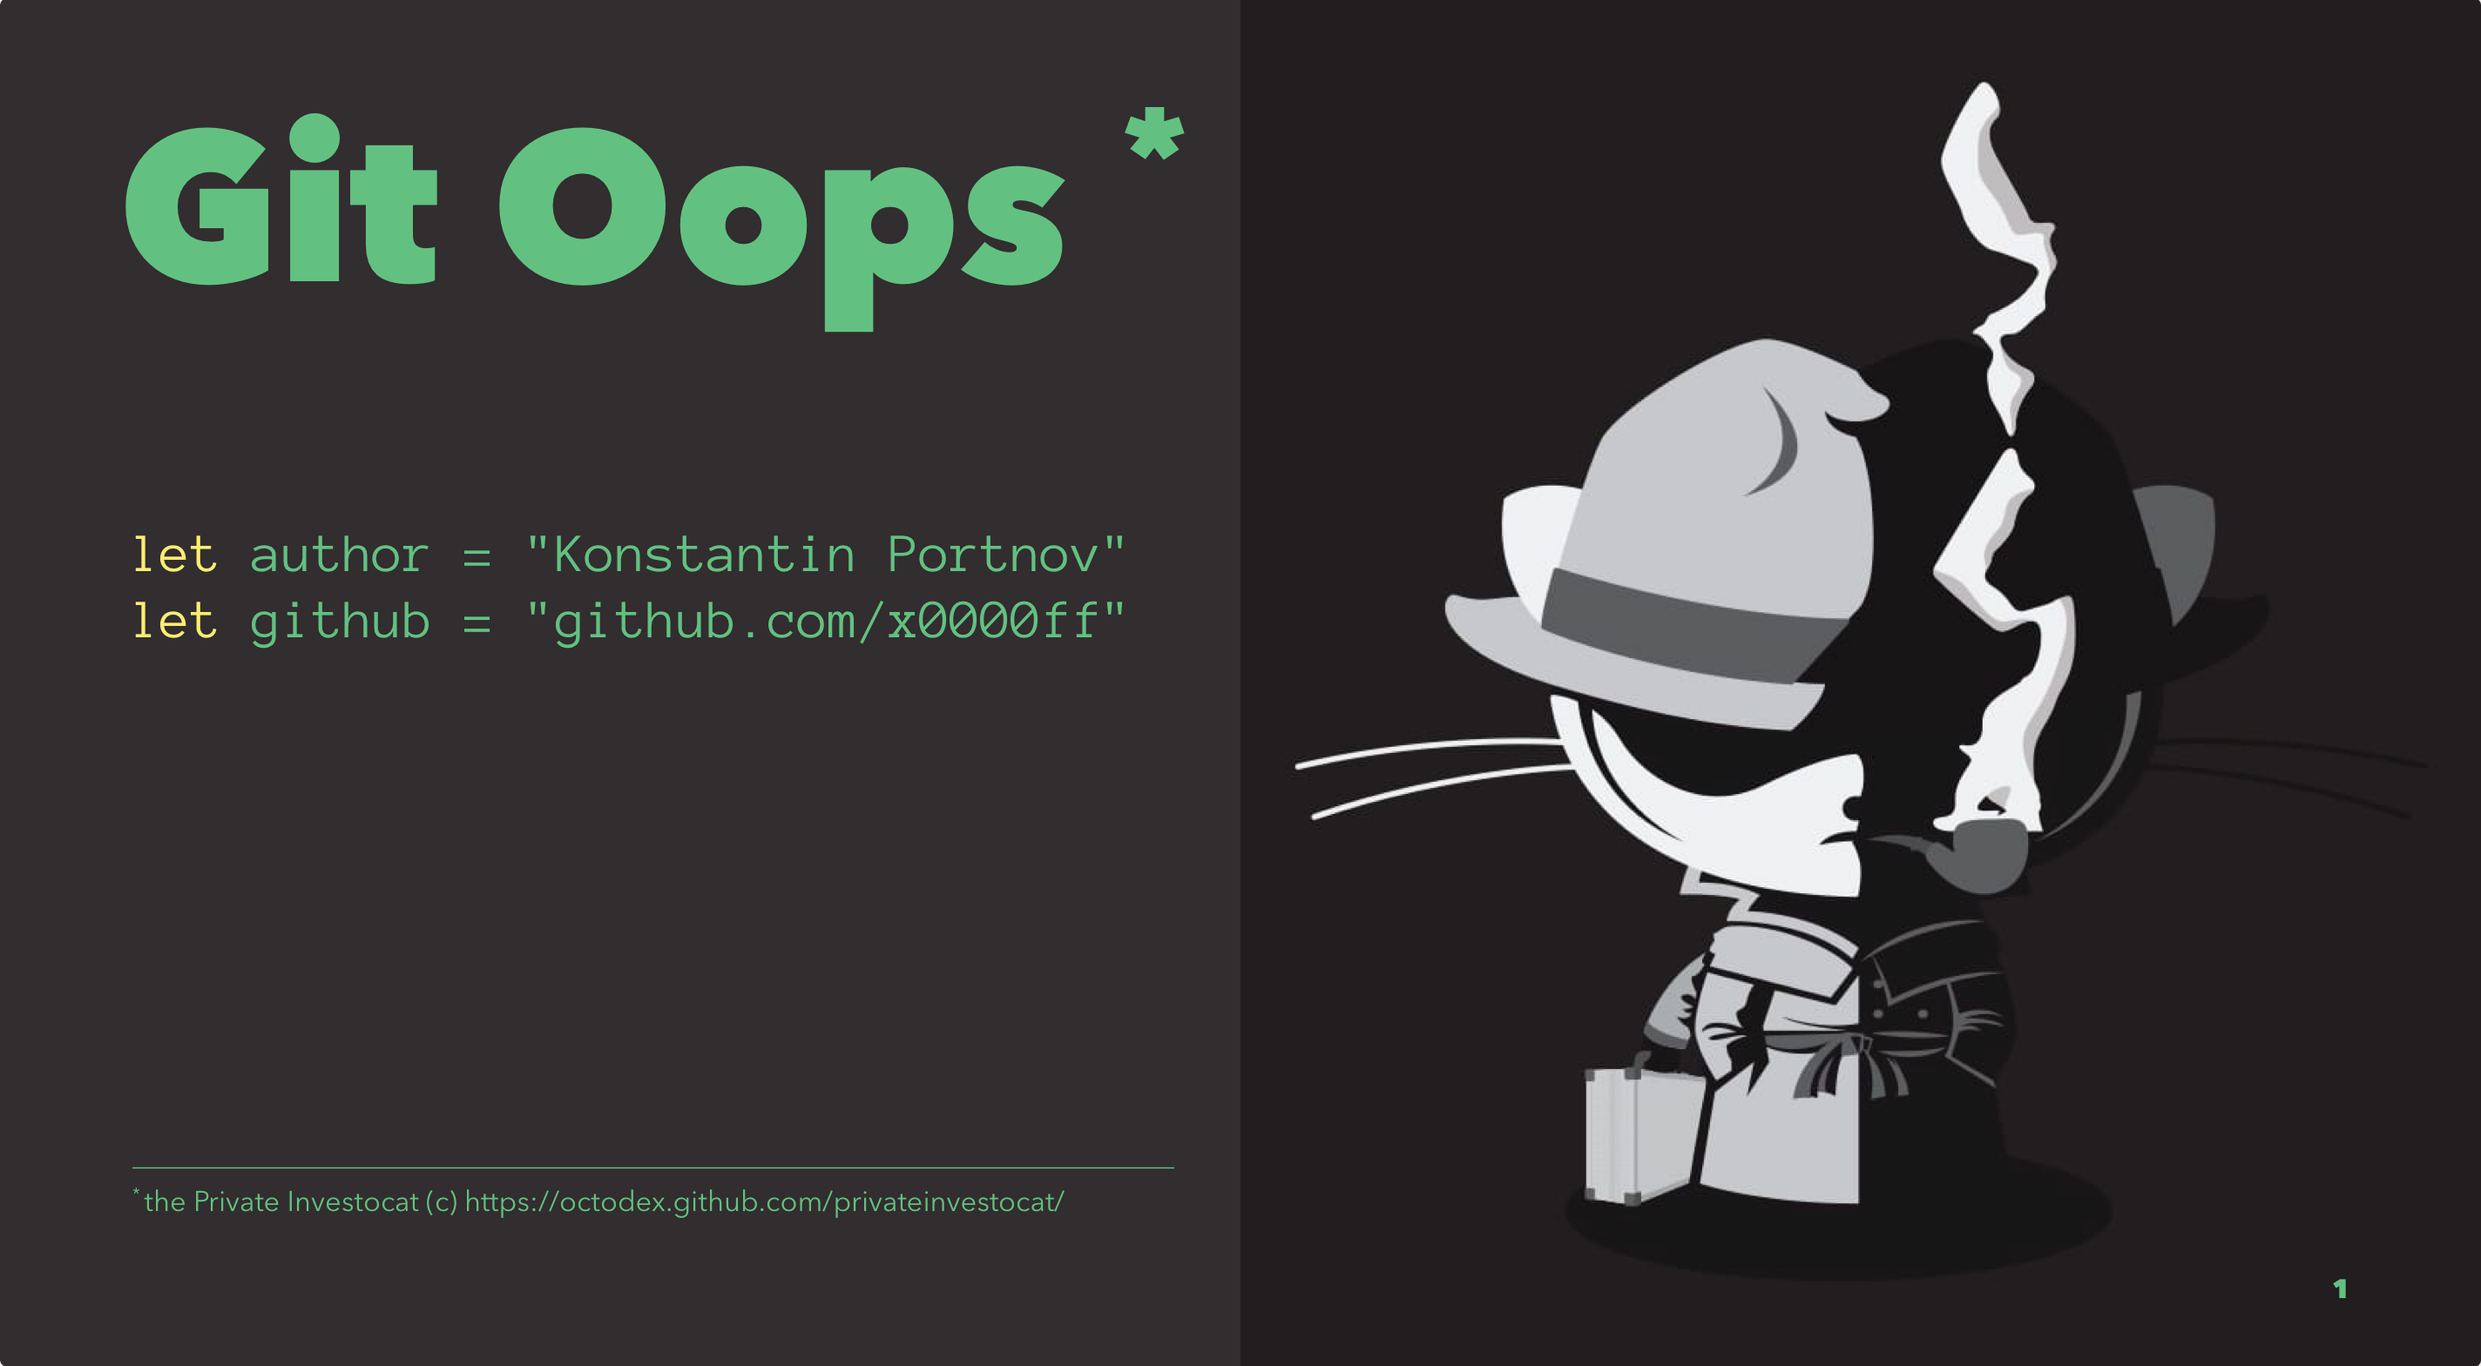
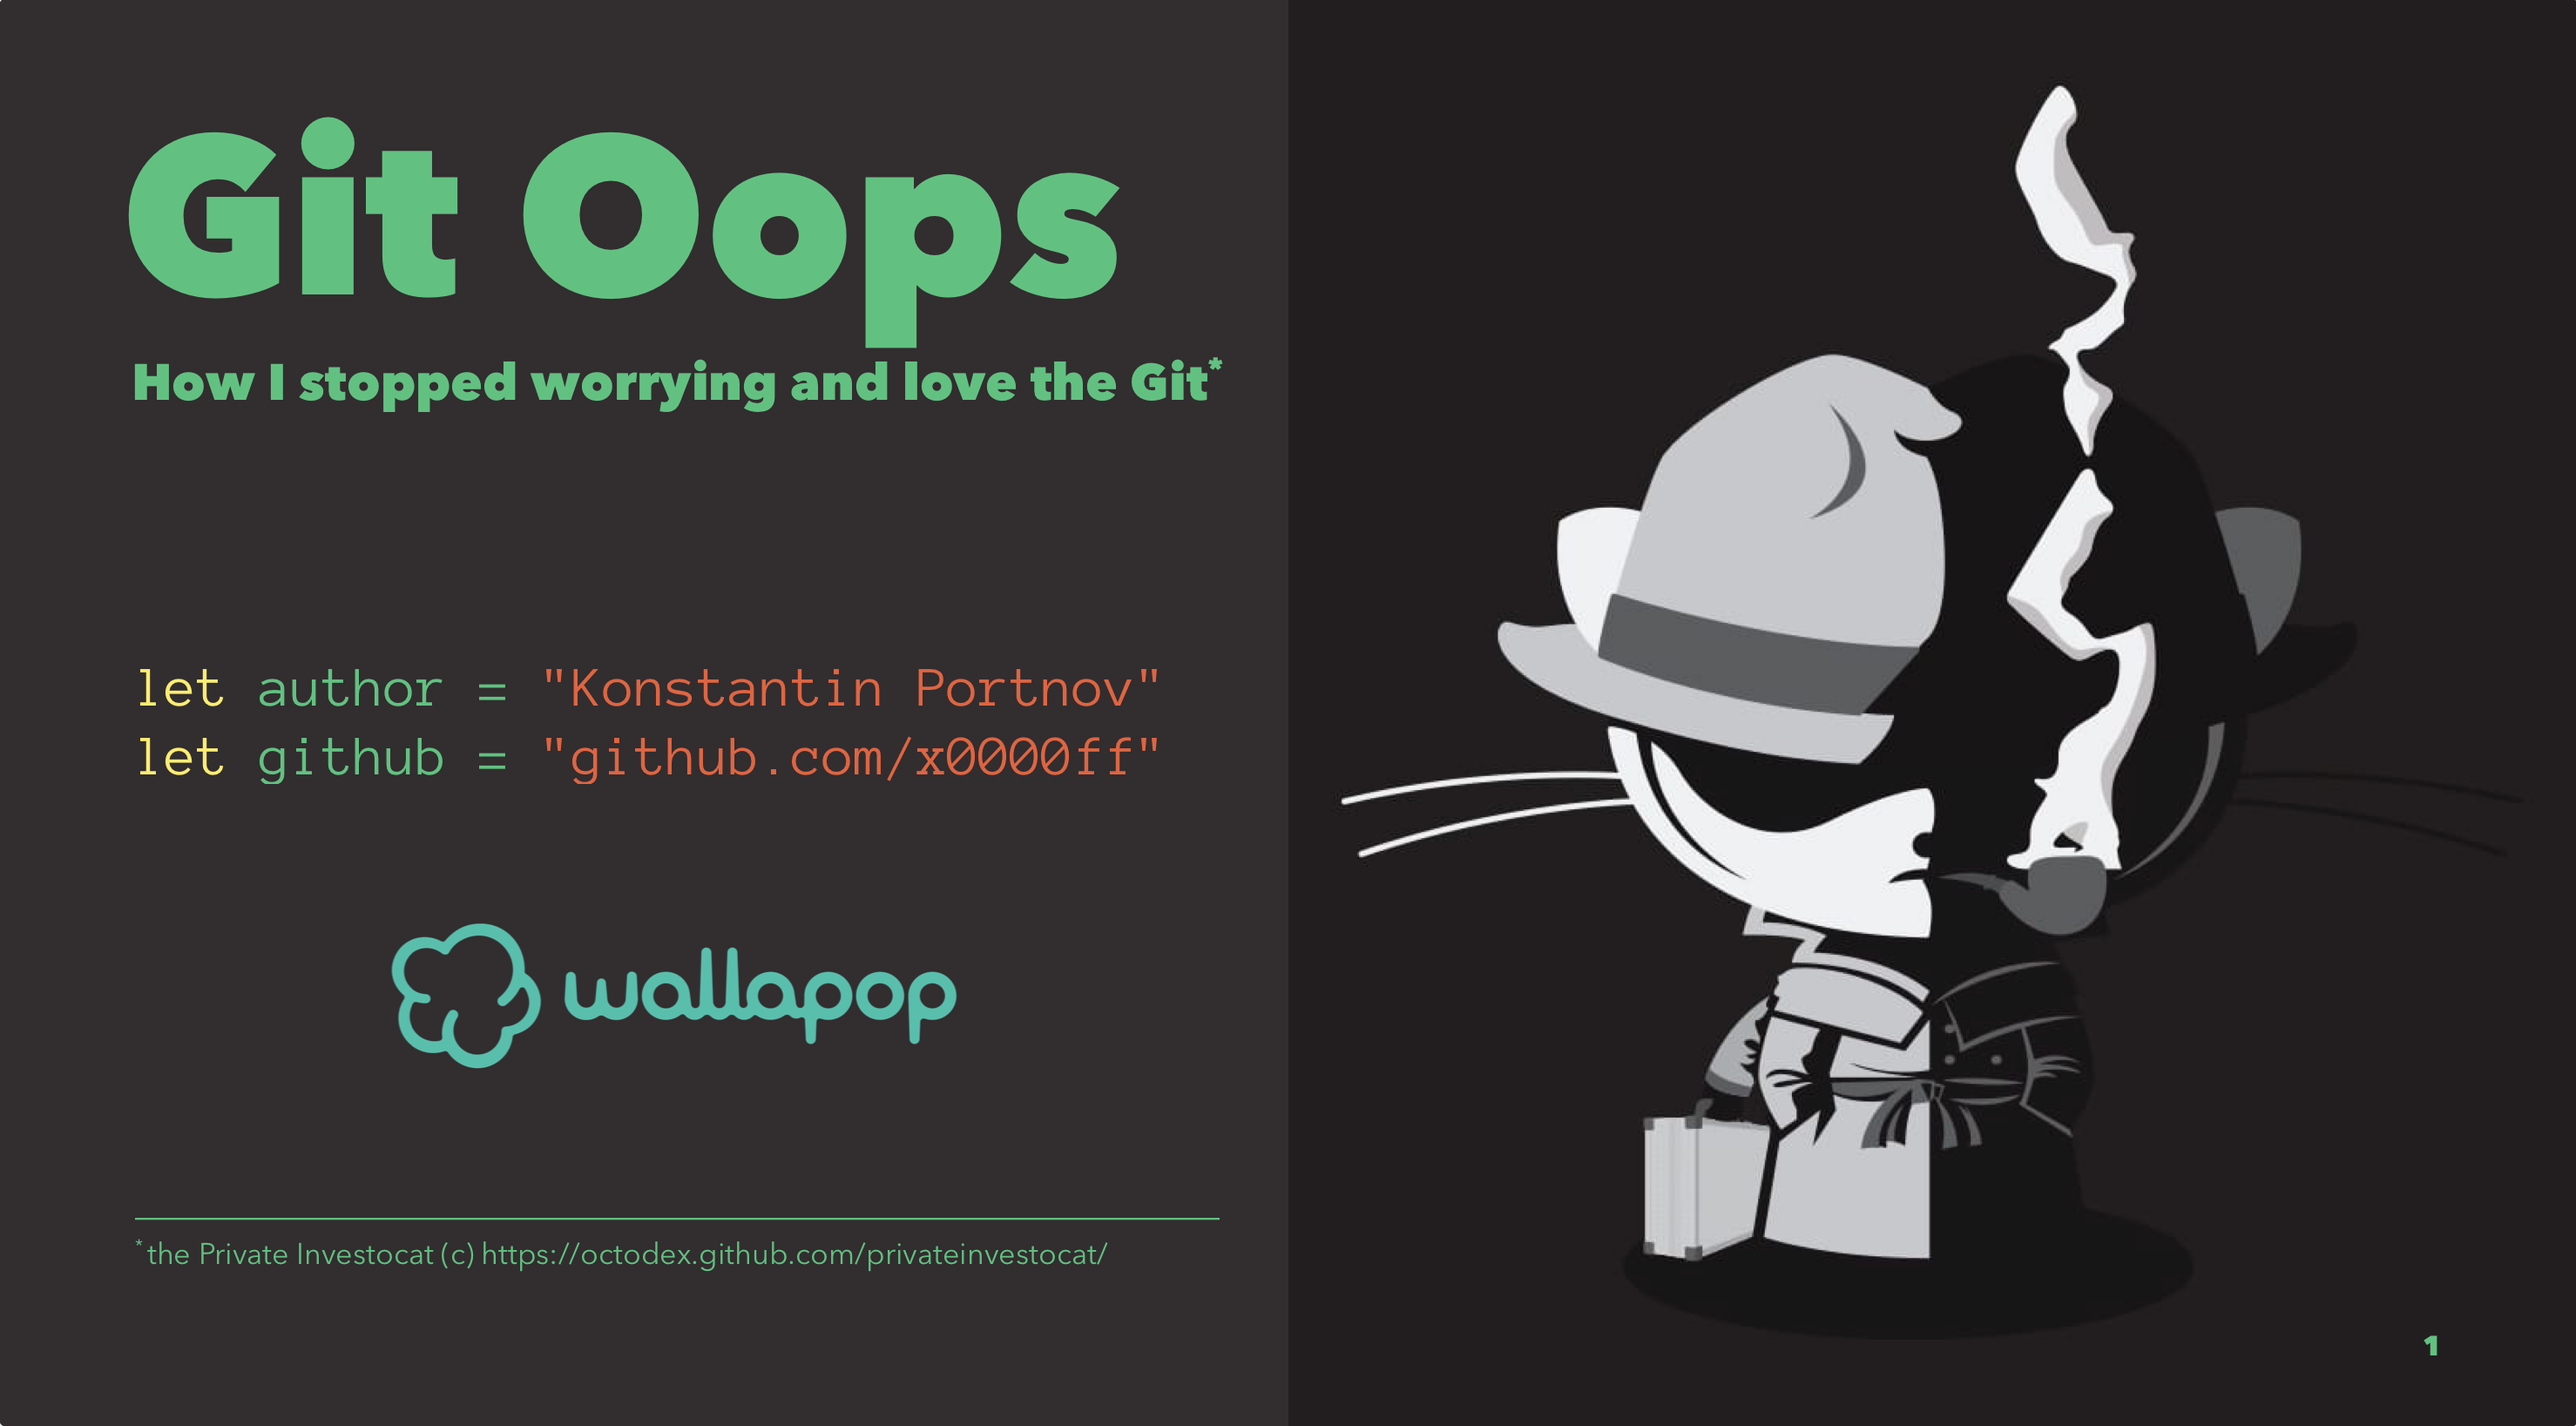
ver. 2.0.

diff --git a/helper.py b/helper.py
@@ -1,0 +1,118 @@
+#!/opt/homebrew/bin/python3.10
+
+##############################
+# 
+# How to make me executable
+#
+# $ chmod u+x helper.py
+# $ ln -s "$PWD/helper.py" /usr/local/bin/kk
+#
+# Usage:
+# $ kk
+#
+# Voilà
+# 
+# Don't forget to remove the simbolic link after:
+# $ unlink /usr/local/bin/kk
+
+import os
+import sys
+import time
+
+REPOSITORY_FOLDER_NAME = "repo"
+
+def print_help():
+    print("📖 Available commands:")
+    commands = ["help", "clear", "init", "create <file content> <file name> <commit message>", "watch"]
+    mapped = map(lambda el: "   - " + el, commands)
+    print(*mapped, sep='\n')
+    print("\n👉 Usage: %s init" %(sys.argv[0]))
+
+def check_command_passed():
+    if len(sys.argv) > 1:
+        return True
+
+    print("✋ Missed command\n")
+    print_help()
+    return False
+
+def read_command():
+    return sys.argv[1]
+
+def clear():
+    os.system("rm -rf ./" + REPOSITORY_FOLDER_NAME)
+    print(f"🧹 Repository folder \"%s\" removed" %(REPOSITORY_FOLDER_NAME))
+
+def init():
+    os.system("mkdir ./" + REPOSITORY_FOLDER_NAME)
+    os.system("cd ./%s && git init"%(REPOSITORY_FOLDER_NAME))
+    print(f"\n👶 Repository created in folder \"%s\"" %(REPOSITORY_FOLDER_NAME))
+
+def create(content, file_name, commit_message):
+    print("📝 Creating new file and committing it")
+    if content is None:
+        content = input("   → File content: ")
+
+    if file_name is None:
+        default_file_name = content + ".txt"
+        file_name = input("   → File name (leave empty for use \"%s\"): " %(default_file_name))
+        if file_name == "":
+            file_name = default_file_name
+
+    if commit_message is None:
+        default_commit_message = content
+        commit_message = input("   → Commit message (leave empty for use \"%s\"): " %(default_commit_message))
+        if commit_message == "":
+            commit_message = default_commit_message
+
+    print(f"\nCreating file \"%s\" with content \"%s\" and commit it with message \"%s\"" %(file_name, content, commit_message))
+    os.system("echo %s > %s" %(content, file_name))
+    os.system("git add " + file_name)
+    os.system("git commit -m " + commit_message)
+
+def watch():
+    clear = lambda: os.system('clear')
+    while True:
+        clear()
+        os.system("git --no-pager log --all --decorate --oneline --graph")
+        time.sleep(2)
+
+def handle_command(command):
+    match command:
+        case "help":
+            print_help()
+       
+        case "clear":
+            clear()
+       
+        case "init":
+            init()
+        
+        case "create":
+            content = sys.argv[2] if len(sys.argv) >= 3 else None
+            file_name = sys.argv[3] if len(sys.argv) >= 4 else None
+            commit_message = sys.argv[4] if len(sys.argv) >= 5 else None
+
+            if content is not None:
+                if file_name is None:
+                    file_name = "%s.txt" %(content)
+                
+                if commit_message is None:
+                    commit_message = content
+
+            create(content, file_name, commit_message)
+       
+        case "watch":
+            watch()
+        
+        case _:
+            print("Unknown command")
+            print_help()
+
+#---------------------------------------------------------
+if check_command_passed() == False:
+    exit(1)
+
+command = read_command()
+
+handle_command(command)

diff --git a/Git Oops.md b/Git Oops.md
@@ -3,7 +3,8 @@ slidenumbers: true
 theme: Next, 3
 slide-transition: fade(0.3)
 
-# [fit] Git Oops [^*]
+# [fit] Git Oops
+# [fit] How I stopped worrying and love the Git[^*]
 
 
 <br/>
@@ -13,7 +14,7 @@ let author = "Konstantin Portnov"
 let github = "github.com/x0000ff"
 ```
 
-<br/>
+![inline](./img/wallapop.png)
 
 ![right](https://octodex.github.com/images/privateinvestocat.jpg)
 
@@ -21,9 +22,49 @@ let github = "github.com/x0000ff"
 
 ---
 
+# ☝ First things first
+## Probably I won't see chat
+
+![inline](./img/rules.jpg)
+
+---
+
+# 😕 Have you ever felt confused using Git?
+![inline](./img/wtf.png)
+
+---
+
+# 😐 Have you ever said "it's not my code" inspecting your Pull Request?
+![inline](./img/monkey-puppet.jpg)
+
+---
+
+# 😖 Have you ever lost your code?
+![inline](./img/confused-travolta.gif)
+
+---
+
+# 🤫 Have created commits "Missed files" ,"Oops" etc?
+![inline](./img/missed-files.jpg)
+
+---
+
+# 🥸 Why are we here?
+
+1. Stop to worry
+2. Take total control
+3. Zero surprises
+
+![right](./img/frog.jpg)
+
+---
+
 # What is Git? 
 # <br/> 
 # 🎤
+
+![right](./img/wtf-is-this-john.gif)
+
 
 ---
 
@@ -31,9 +72,9 @@ let github = "github.com/x0000ff"
 
 [.build-lists: true]
 
-- Database
-- Time machine
-- Something else?
+1. Database
+2. Time machine
+3. Something else?
 
 [.build-lists: false]
 
@@ -76,7 +117,7 @@ let github = "github.com/x0000ff"
 # Commit creation
 
 
-![fit inline](./img/commit-creation.png)
+![fit inline](./img/commit.png)
 
 ---
 
@@ -148,6 +189,17 @@ Do not push them to remote 🙏
 
 [^⚠]: `push --force` needed
 
+
+---
+
+# 🥸 Why are we here?
+
+1. Stop to worry
+2. Take total control
+3. Zero surprises
+
+![right](./img/frog.jpg)
+
 ---
 
 # 🎉 Fin
@@ -162,6 +214,6 @@ Do not push them to remote 🙏
 
 # 🤔 Q & A
 
-## This talk is here: shorturl.at/aeiJS
-
 ![inline](./img/qr.png)
+
+## `github.com/x0000ff/git-oops`

diff --git a/README.md b/README.md
@@ -5,25 +5,41 @@
 - [Source](./Git%20Oops.md)
 - [Generated PDF](./Git%20Oops.pdf)
 
+> PDF is outdated. Deckset crashes on export 😔  
 > Presentation was made with [Deckset](https://www.decksetapp.com) and [MacDown](https://macdown.uranusjr.com/)
 
-## Notes
+## Cases
 
-- Create 3 commits
-- `reset head~2`
-- Ooops. We lost **commit 3**
-- `reflog`
-- `show <hash>`
-- `cherry-pick <3-hash>`
-- LOOK new commit is not the same as the old one. WHY?
-- Create commits **4** and **5**
-- `tag before-join`
-- `reset —soft head~2`
-- `commit -m "4 + 5"`
-- `reset —hard before-join` 
+### Amend Last Commit
 
-BACK to SLIDES
+1. Typo in last commit -> `commit --amend`
+2. Forgot to add a file -> `commit --amend --no-edit`
 
-- `commit —amend`
-- What more? Questions?
-- Take any wallapop branch and change applying resets.
+### Recreate Last Commit
+
+1. Typo in last commit -> `reset --soft`
+2. Forgot to add a file -> `reset --soft`
+
+### Recreate Last N Commit
+
+1. Typo in last commit -> `reset --soft head~3`
+
+### Join last 3 commits
+
+0. Mark with tag `before-join`
+1. `reset --soft head~3` + `commit -m "2 + 3 + 4`
+
+### Remove commits / Fast Travel
+
+1. I gon't need last 2 commits -> `reset --hard head~2`
+2. Oops... Identify dissappeared commit -> `reflog`
+3. Use `show`
+4. Use `cat-file -p`
+4. Take only commit `head~2` -> `cherry-pick`
+
+### Why commits have different hashes?
+
+1. Add tag
+2. `reset --soft head~1`
+3. Create a tag with the same message
+4. Why do they have different hashes?
